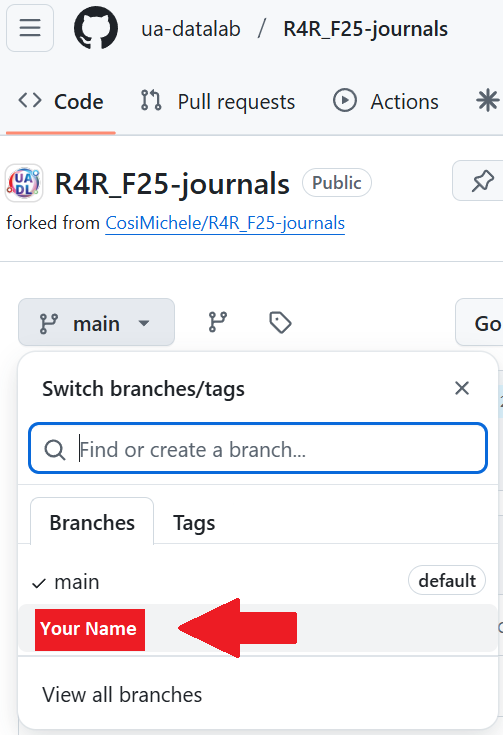
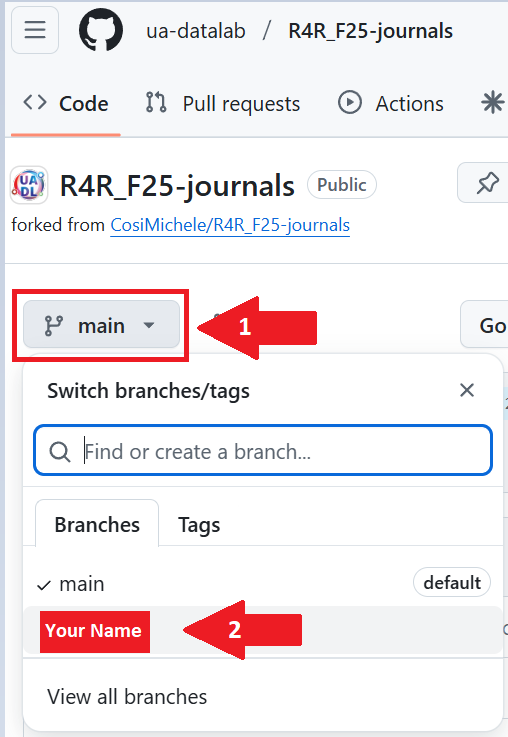
updated instructions with forking and pull requests

diff --git a/README.md b/README.md
@@ -43,3 +43,50 @@ The following steps have to be executed **once**.
 </p>
 
 ### Pull Requests
+
+Upon creating a Fork of the original repository, you will find the clone in your list of repositories under your own account.
+
+1. Navigate to your own account, and select the **R4R_F24-journals** repository.
+2. (1) Click the Select the **Branches** button (you will see **main** on it) and (2) Select your name. If you can't see it, click **View all branches** and select your name.
+
+<p align="center">
+    <img src="assets/r4r_journals-03.png" width="600">
+</p>
+
+3. Select the journal you want to edit; For example reasons I chose `journal_01-02sept25.md`
+
+<p align="center">
+    <img src="assets/r4r_journals-04.png" width="600">
+</p>
+
+4. Click on the **Edit** function (pencil on the top right side)
+
+<p align="center">
+    <img src="assets/r4r_journals-05.png" width="600">
+</p>
+
+5. Edit the entry using Markdown (use the [Markdown guide](https://www.markdownguide.org/basic-syntax/) to learn the correct use of the Markdown syntax). Once finished, click on the **Commit changes...** button, on the top right.
+
+<p align="center">
+    <img src="assets/r4r_journals-06.png" width="600">
+</p>
+
+6. (1) Give a constructive, succint message; (2) **VERY IMPORTANT**: make sure to select "Commit directly to the `<YOUR NAME>` branch"; (3) Press **Commit changes**.
+
+<p align="center">
+    <img src="assets/r4r_journals-07.png" width="600">
+</p>
+
+7. You should be automatically be brought to your fork's main page; (1) Sanity check: ensure that there is a message saying "This branch is `#` commit ahead of `CosiMichele/R4R_F25-journals:<YOUR NAME>`". (2) In the yellow message box, click **Compare & pull request**
+
+<p align="center">
+    <img src="assets/r4r_journals-08.png" width="600">
+</p>
+
+9. (1) Sanity check: ensure that base and head repositories are both `<YOUR NAME>`. (2) Click **Create pull request**.
+
+<p align="center">
+    <img src="assets/r4r_journals-09.png" width="600">
+</p>
+
+At this point you will have submitted your journal! It's tedious in the beginning but in no time you will get the hang of it!
